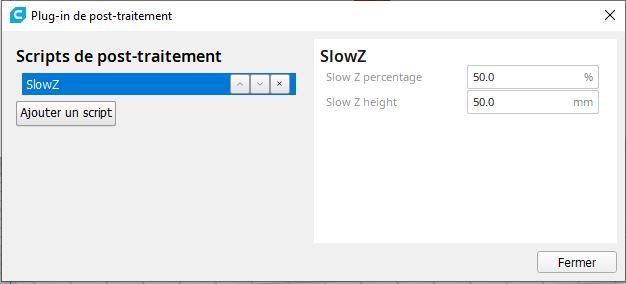
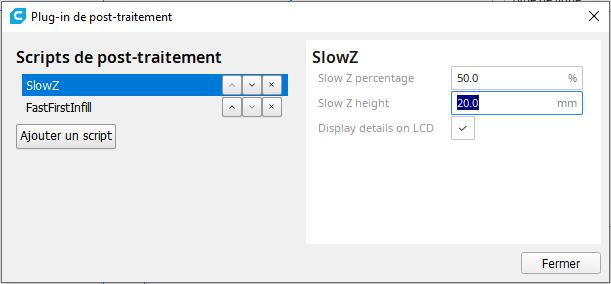
update

diff --git a/SlowZ.py b/SlowZ.py
@@ -69,12 +69,13 @@ class SlowZ(Script):
                 "slowz_percentage":
                 {
                     "label": "Slow Z percentage",
-                    "description": "Positive value to slow the print as the z value rises up to 50 percent.",
+                    "description": "Positive value to slow the print as the z value rises up to this percentage.",
                     "type": "float",
                     "unit": "%",
                     "default_value": 0,
                     "minimum_value": "0",
-                    "maximum_value_warning": "50"
+                    "maximum_value_warning": "50",
+                    "maximum_value": "90"
                 },        
                 "slowz_height":
                 {
@@ -84,16 +85,24 @@ class SlowZ(Script):
                     "unit": "mm",
                     "default_value": 0,
                     "minimum_value": "0"
-                }                     
+                },
+                "lcdfeedback":
+                {
+                    "label": "Display details on LCD",
+                    "description": "This setting will insert M117 gcode instructions, to display current modification in the G-Code is being used.",
+                    "type": "bool",
+                    "default_value": true
+                }                      
             }
         }"""
 
     def execute(self, data):
 
         SlowZPercentage = float(self.getSettingValueByKey("slowz_percentage")) 
-        SlowZHeight = float(self.getSettingValueByKey("slowz_height")) 
-        Logger.log('d', 'SlowZPercentage : {:f}'.format(SlowZPercentage))
-        Logger.log('d', 'SlowZHeight     : {:f}'.format(SlowZHeight))
+        SlowZHeight = float(self.getSettingValueByKey("slowz_height"))
+        UseLcd = self.getSettingValueByKey("lcdfeedback")
+        # Logger.log('d', 'SlowZPercentage : {:f}'.format(SlowZPercentage))
+        # Logger.log('d', 'SlowZHeight     : {:f}'.format(SlowZHeight))
 
         idl=0
         currentz=0
@@ -105,7 +114,7 @@ class SlowZ(Script):
             for line in lines:                  
                
                 if line.startswith(";LAYER_COUNT:"):
-                    Logger.log("w", "found LAYER_COUNT %s", line[13:])
+                    # Logger.log("w", "found LAYER_COUNT %s", line[13:])
                     layercount=int(line[13:])                    
                
                 if is_begin_layer_line(line):
@@ -113,7 +122,7 @@ class SlowZ(Script):
                     
                     # Logger.log('d', 'layer_lines : {}'.format(line))
                     currentlayer=int(line[7:])
-                    Logger.log('d', 'currentlayer : {:d}'.format(currentlayer))
+                    # Logger.log('d', 'currentlayer : {:d}'.format(currentlayer))
                     if line.startswith(";LAYER:0"):
                         currentz=0
                         idl=1
@@ -127,6 +136,9 @@ class SlowZ(Script):
                     if idl >= 2 :
                         speed_value = 100 - int(float(SlowZPercentage)*((currentlayer-startlayer)/(layercount-startlayer)))
                         lines.insert(2,"M220 S" + str(speed_value))
+                        if UseLcd == True :
+                            lcd_gcode = "M117 Speed {:d}%".format(int(speed_value))
+                            lines.insert(3,lcd_gcode)
                 
                 
                 if idl == 1 and is_z_line(line):
